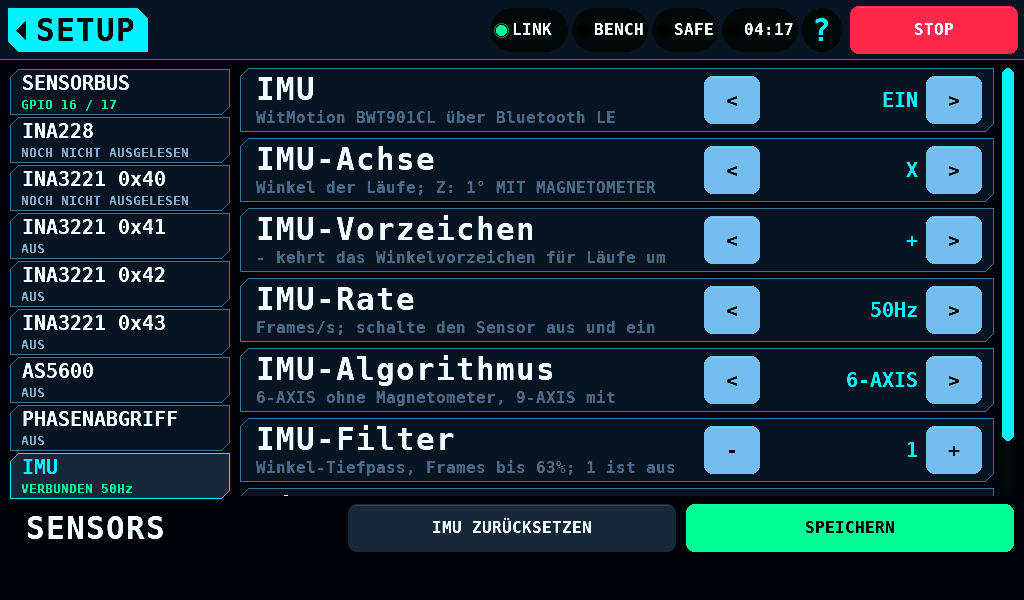
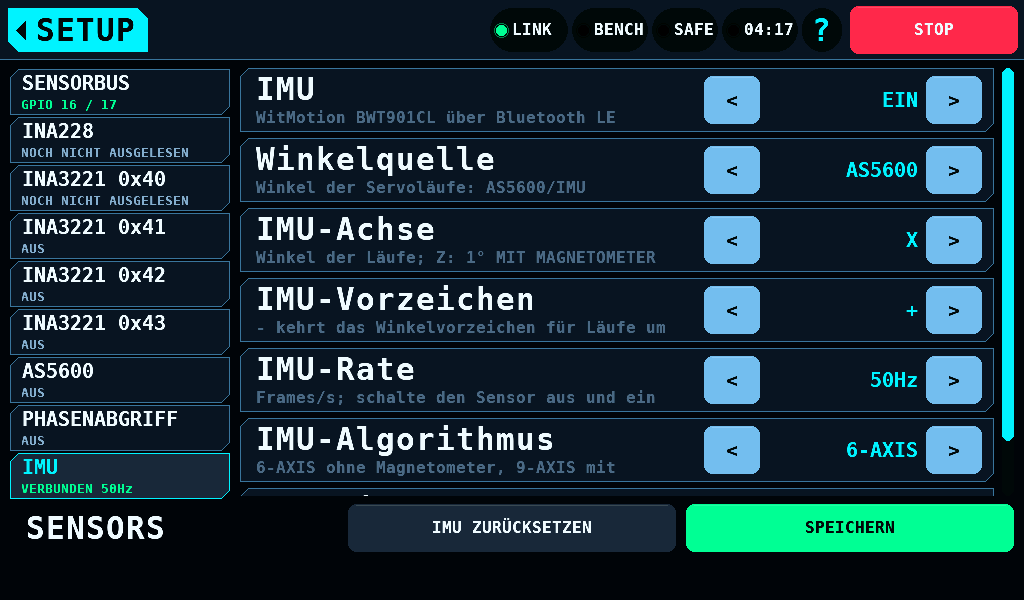
Keep ANGLE SOURCE in SETUP with the IMU off and let SCAN switch it on
SETUP > SENSORS > IMU lists Angle source second and shows it with the
IMU off, so the source goes back to the AS5600 without switching the IMU
on. SCAN FOR SENSORS takes a press with the IMU off or Bluetooth LE
starting: it switches IMU ON in SETUP, opens the list with STARTING
BLUETOOTH as its heading and scans once Bluetooth runs. Without sync with
the C6 and on a failed C6 it stays grey. The card's state line reads IMU
OFF: SCAN SWITCHES IT ON. New views imu-off and setup-sensors-imu-off.

diff --git a/test/host/test_imu_screen.c b/test/host/test_imu_screen.c
@@ -5,7 +5,8 @@
  *
  * The failures this is about: a scan whose list never opens, a tap on a
  * device that binds another one, a calibration started by a brush of the
- * glass, a refused scan that leaves no way on, a line that runs past its
+ * glass, a refused scan that leaves no way on, a SCAN with the IMU off
+ * that does not switch it on, a line that runs past its
  * field in German, and a screen that leaves for the menu rather than SETUP.
  *
  * SPDX-License-Identifier: MIT
@@ -213,6 +214,43 @@ TEST_CASE(scan_posts_the_command_and_the_list_shows_the_found_devices)
     CHECK_EQ(took().kind, IMU_CMD_NONE);
     CHECK(!imu_screen()->covered());
     ui_router_render(&s_c, 0);
+}
+
+/* IMU OFF: SCAN takes a press, switches the IMU on in SETUP and opens the
+ * list, whose heading names the start of Bluetooth LE; the SCAN goes out
+ * once Bluetooth runs, once, and SCAN AGAIN waits with it. */
+TEST_CASE(scan_with_the_imu_off_switches_it_on_and_scans_once_bluetooth_runs)
+{
+    imu_view_t v;
+    memset(&v, 0, sizeof v);
+    v.link = IMU_LINK_OFF;
+    on_imu(&v);
+    CHECK(!settings_get_bool(SET_IMU_EN));
+    CHECK_STR_EQ(imu_screen_line(IMS_L_STATE), "IMU OFF: SCAN SWITCHES IT ON");
+    CHECK(ims_row_enabled(IMS_ROW_SCAN));
+    tap_rect(imu_screen_row_rect(IMS_ROW_SCAN));
+    CHECK(settings_get_bool(SET_IMU_EN));
+    CHECK(imu_screen()->covered());
+    CHECK_EQ(took().kind, IMU_CMD_NONE);
+    CHECK_STR_EQ(imu_screen_line(IMS_L_HEAD), "STARTING BLUETOOTH");
+    CHECK(!ims_row_enabled(IMS_ROW_RESCAN));
+    v.link = IMU_LINK_STARTING;
+    imu_screen_set(&v);
+    CHECK_EQ(took().kind, IMU_CMD_NONE);
+    v.link = IMU_LINK_READY;
+    imu_screen_set(&v);
+    CHECK_EQ(took().kind, IMU_CMD_SCAN);
+    CHECK_EQ(took().kind, IMU_CMD_NONE);
+    CHECK_STR_EQ(imu_screen_line(IMS_L_HEAD), "NO SCAN YET");
+    v.link = IMU_LINK_SCANNING;
+    imu_screen_set(&v);
+    CHECK_STR_EQ(imu_screen_line(IMS_L_HEAD), "SCANNING: 10s");
+    ui_router_render(&s_c, 0);
+    /* A C6 that failed takes no SCAN. */
+    tap_rect(imu_screen_row_rect(IMS_ROW_CLOSE));
+    v.link = IMU_LINK_C6_FAILED;
+    imu_screen_set(&v);
+    CHECK(!ims_row_enabled(IMS_ROW_SCAN));
 }
 
 TEST_CASE(a_tap_on_a_device_posts_bind_with_its_index)
@@ -455,12 +493,12 @@ TEST_CASE(zero_posts_zero_and_the_lines_show_the_zeroed_angles)
 TEST_CASE(the_state_line_names_every_link_state)
 {
     static const char *const en[] = {
-        "IMU OFF: SEE SETTINGS", "STARTING BLUETOOTH",
+        "IMU OFF: SCAN SWITCHES IT ON", "STARTING BLUETOOTH",
         "NO BLUETOOTH ON C6", "C6 FAILED: RESTART", "NO SENSOR BOUND",
         "SCANNING", "CONNECTING", "BOUND", "CONNECTED 50Hz", "NO FRAMES",
     };
     static const char *const de[] = {
-        "IMU AUS: SIEHE OPTIONEN", "BLUETOOTH STARTET",
+        "IMU AUS: SUCHEN SCHALTET SIE EIN", "BLUETOOTH STARTET",
         "KEIN BLUETOOTH AM C6", "C6 AUSGEFALLEN: NEUSTART",
         "KEIN SENSOR GEBUNDEN", "SUCHE LÄUFT", "VERBINDE", "GEBUNDEN",
         "VERBUNDEN 50Hz", "KEINE FRAMES",
@@ -609,6 +647,7 @@ int main(void)
     RUN(the_tile_opens_the_screen_and_home_returns_to_setup);
     RUN(the_hold_and_settings_sit_in_the_footer_over_nothing_else);
     RUN(scan_posts_the_command_and_the_list_shows_the_found_devices);
+    RUN(scan_with_the_imu_off_switches_it_on_and_scans_once_bluetooth_runs);
     RUN(a_tap_on_a_device_posts_bind_with_its_index);
     RUN(a_scan_error_reads_in_the_list_and_on_the_main_view);
     RUN(calibrate_needs_a_2s_hold_and_the_band_hint_on_a_short_press);

diff --git a/shared/ui/imu_screen.c b/shared/ui/imu_screen.c
@@ -3,11 +3,12 @@
  * @brief The IMU screen (imu_screen.h): its model, its touches and its
  *        texts.  imu_screen_draw.c draws it.
  *
- * The screen commands nothing itself: a tap queues an imu_cmd_t that the
- * panel hands to the IMU's task (imu_ctl.h), and the panel hands back
- * what to show each frame (imu_screen_set()).  SCAN opens the found list
- * at once; it shows the scan under way, then the devices, and a tap on one
- * binds it and closes the list.  CALIBRATE in the footer's middle slot is
+ * The screen commands nothing itself but IMU ON in SETUP: a tap queues an
+ * imu_cmd_t that the panel hands to the IMU's task (imu_ctl.h), and the
+ * panel hands back what to show each frame (imu_screen_set()).  SCAN opens
+ * the found list at once, with the IMU switched on in SETUP when it is
+ * off; it shows the start of Bluetooth LE and the scan under way, then the
+ * devices, and a tap on one binds it and closes the list.  CALIBRATE in the footer's middle slot is
  * a 2s hold with the band's hint on a short press (UI_HOLD_S); SETTINGS in
  * its right slot opens SETUP > SENSORS on the IMU entry.
  *
@@ -77,6 +78,24 @@ bool ims_row_shown(int row)
     }
 }
 
+/**
+ * @brief SCAN takes a press: Bluetooth runs and nothing scans or
+ *        calibrates, or the IMU is off or Bluetooth LE starts, which the
+ *        search switches on and waits for (imu_screen_search()).  No sync
+ *        with the C6 and a C6 that failed take none.
+ * @return Whether SCAN and SCAN AGAIN take a press.
+ */
+static bool scan_free(void)
+{
+    switch (ims.v.link) {
+    case IMU_LINK_OFF:
+    case IMU_LINK_STARTING:
+        return ims.v.cal != IMU_CAL_RUNNING && !ims.scan_owed;
+    default:
+        return at_free();
+    }
+}
+
 bool ims_row_enabled(int row)
 {
     if (!ims_row_shown(row)) {
@@ -84,7 +103,7 @@ bool ims_row_enabled(int row)
     }
     switch (row) {
     case IMS_ROW_SCAN: case IMS_ROW_RESCAN:
-        return at_free();
+        return scan_free();
     case IMS_ROW_CAL:
         return ims.v.link == IMU_LINK_CONNECTED
                && ims.v.cal != IMU_CAL_RUNNING;
@@ -329,6 +348,10 @@ static void head_line(char *buf, size_t n, gfx_color_t *ink)
     *ink = UI_TEXT;
     if (ims.v.link == IMU_LINK_SCANNING) {
         snprintf(buf, n, "%s", TR(IMU_SCANNING));
+    } else if (ims.scan_owed) {
+        /* The search waits for Bluetooth LE: what it waits on. */
+        snprintf(buf, n, "%s", ims.v.link == IMU_LINK_NO_BT
+                                   ? TR(IMU_ST_NO_BT) : TR(IMU_ST_STARTING));
     } else if (ims.v.found_n > 0u) {
         snprintf(buf, n, TR(IMU_FOUND), (unsigned)ims.v.found_n);
     } else if (ims.v.err != IMU_ERR_NONE) {
@@ -490,7 +513,9 @@ static void act(int hit)
     switch (hit) {
     case IMS_ROW_SCAN:
     case IMS_ROW_RESCAN:
-        post(IMU_CMD_SCAN, 0u);
+        /* With the IMU off it is switched on, and the scan waits for
+         * Bluetooth LE to run. */
+        (void)imu_screen_search();
         ims.list = true;
         break;
     case IMS_ROW_ZERO:   post(IMU_CMD_ZERO, 0u);   break;

diff --git a/test/host/test_sensors_pane.c b/test/host/test_sensors_pane.c
@@ -120,31 +120,31 @@ TEST_CASE(a_moved_row_keeps_its_key)
     }
 }
 
-/* The enable row alone while off, the sensor's rows under it while on; the
- * bus has no enable row. */
+/* The enable row alone while off, the IMU's with ANGLE SOURCE, the
+ * sensor's rows under it while on; the bus has no enable row. */
 TEST_CASE(rows_appear_when_a_sensor_is_enabled)
 {
-    static const struct { int e; setting_id_t en; int on; } k[] = {
-        { SENS_ENTRY_INA228, SET_INA228_EN, 4 },
-        { SENS_ENTRY_INA3221_0, SET_INA_FIT_0, 10 },
-        { SENS_ENTRY_INA3221_0 + 3, (setting_id_t)(SET_INA_FIT_0 + 3), 10 },
-        { SENS_ENTRY_AS5600, SET_ENC_EN, 2 },
-        { SENS_ENTRY_TAP, SET_TONE_EN, 7 },
-        { SENS_ENTRY_IMU, SET_IMU_EN, 7 },
+    static const struct { int e; setting_id_t en; int on; int off; } k[] = {
+        { SENS_ENTRY_INA228, SET_INA228_EN, 4, 1 },
+        { SENS_ENTRY_INA3221_0, SET_INA_FIT_0, 10, 1 },
+        { SENS_ENTRY_INA3221_0 + 3, (setting_id_t)(SET_INA_FIT_0 + 3), 10, 1 },
+        { SENS_ENTRY_AS5600, SET_ENC_EN, 2, 1 },
+        { SENS_ENTRY_TAP, SET_TONE_EN, 7, 1 },
+        { SENS_ENTRY_IMU, SET_IMU_EN, 7, 2 },   /* ANGLE SOURCE stays */
     };
     pane();
     CHECK_EQ(settings_screen_rows(SET_CAT_SENSORS), 2);
     for (size_t i = 0u; i < sizeof(k) / sizeof(k[0]); ++i) {
         tap(entry_x(k[i].e), entry_y(k[i].e));
         CHECK_EQ(sensors_pane_selected(), k[i].e);
-        CHECK_EQ(settings_screen_rows(SET_CAT_SENSORS), 1);
+        CHECK_EQ(settings_screen_rows(SET_CAT_SENSORS), k[i].off);
         /* The tap on the enable row's ">" brings the others. */
         tap(XP, LIST_Y + ROW_H / 2);
         CHECK(settings_get_bool(k[i].en));
         CHECK_EQ(settings_screen_rows(SET_CAT_SENSORS), k[i].on);
         tap(XM, LIST_Y + ROW_H / 2);
         CHECK(!settings_get_bool(k[i].en));
-        CHECK_EQ(settings_screen_rows(SET_CAT_SENSORS), 1);
+        CHECK_EQ(settings_screen_rows(SET_CAT_SENSORS), k[i].off);
     }
     CHECK_EQ(sensors_pane_rows(-1, NULL, 0), 0);
     CHECK_EQ(sensors_pane_rows(SENS_ENTRY_COUNT, NULL, 0), 0);

diff --git a/test/host/test_imu_pane.c b/test/host/test_imu_pane.c
@@ -2,7 +2,8 @@
  * SETUP > SENSORS > IMU (sensors_pane.h, sensors_rows.h): the entry's rows,
  * its state column, and what a RATE or an ALGORITHM change does.
  *
- * The failures this is about: an IMU entry that shows its rows while off,
+ * The failures this is about: an IMU entry that shows its sensor's rows
+ * while off or hides ANGLE SOURCE then,
  * a state word in a colour that says connected when it is not, a RATE
  * changed in SETUP that never reaches the sensor or reaches it without the
  * operator learning it needs a power cycle, and a SENSORS row past the
@@ -22,15 +23,18 @@ TEST_CASE(the_imu_entry_shows_its_rows_under_on)
     char name[16];
     CHECK_STR_EQ(sensors_pane_name(SENS_ENTRY_IMU, name, sizeof name), "IMU");
     setting_id_t rows[SENS_ENTRY_ROWS_MAX];
-    CHECK_EQ(sensors_pane_rows(SENS_ENTRY_IMU, rows, SENS_ENTRY_ROWS_MAX), 1);
+    /* OFF: IMU and ANGLE SOURCE, so the source goes back to the AS5600
+     * with the IMU off. */
+    CHECK_EQ(sensors_pane_rows(SENS_ENTRY_IMU, rows, SENS_ENTRY_ROWS_MAX), 2);
     CHECK_EQ(rows[0], SET_IMU_EN);
+    CHECK_EQ(rows[1], SET_ANGLE_SOURCE);
     settings_set(SET_IMU_EN, 1.0f);
-    /* ON, AXIS, SIGN, RATE, ALGORITHM, FILTER, and ANGLE SOURCE under
-     * them. */
-    static const setting_id_t want[] = { SET_IMU_EN, SET_IMU_AXIS,
-                                         SET_IMU_SIGN, SET_IMU_RATE,
-                                         SET_IMU_ALGO, SET_IMU_FILTER,
-                                         SET_ANGLE_SOURCE };
+    /* ON: ANGLE SOURCE second, AXIS, SIGN, RATE, ALGORITHM and FILTER
+     * under it. */
+    static const setting_id_t want[] = { SET_IMU_EN, SET_ANGLE_SOURCE,
+                                         SET_IMU_AXIS, SET_IMU_SIGN,
+                                         SET_IMU_RATE, SET_IMU_ALGO,
+                                         SET_IMU_FILTER };
     CHECK_EQ(sensors_pane_rows(SENS_ENTRY_IMU, rows, SENS_ENTRY_ROWS_MAX), 7);
     for (int i = 0; i < 7; ++i) {
         CHECK_EQ(rows[i], want[i]);

diff --git a/shared/ui/sensors_pane.c b/shared/ui/sensors_pane.c
@@ -30,10 +30,13 @@ static const setting_id_t k_as5600[] = { SET_ENC_EN, SET_ENC_CENTER };
 static const setting_id_t k_tap[] = { SET_TONE_EN, SET_TONE_PIN, SET_TONE_F_MIN,
                                       SET_TONE_F_MAX, SET_TONE_SPLIT,
                                       SET_TONE_GAP, SET_TONE_PERIODS };
-/** @brief The IMU's rows, the enable row first; ANGLE SOURCE last. */
-static const setting_id_t k_imu[] = { SET_IMU_EN, SET_IMU_AXIS, SET_IMU_SIGN,
+/** @brief The IMU's rows, the enable row first and ANGLE SOURCE second:
+ *         both stand while the IMU is off, so the source can go back to
+ *         the AS5600 without switching the IMU on. */
+static const setting_id_t k_imu[] = { SET_IMU_EN, SET_ANGLE_SOURCE,
+                                      SET_IMU_AXIS, SET_IMU_SIGN,
                                       SET_IMU_RATE, SET_IMU_ALGO,
-                                      SET_IMU_FILTER, SET_ANGLE_SOURCE };
+                                      SET_IMU_FILTER };
 
 /** @brief Appends @p table to all_rows()'s out, counted in its n. */
 #define COPY_ROWS(table)                                             \
@@ -105,8 +108,11 @@ int sensors_pane_rows(int entry, setting_id_t *out, int max)
 {
     setting_id_t rows[SENS_ENTRY_ROWS_MAX];
     int n = all_rows(entry, rows);
-    if (entry != SENS_ENTRY_BUS && n > 1 && !settings_get_bool(rows[0])) {
-        n = 1;
+    /* Off: the enable row alone; the IMU's ANGLE SOURCE with it. */
+    const int off_rows = (entry == SENS_ENTRY_IMU) ? 2 : 1;
+    if (entry != SENS_ENTRY_BUS && n > off_rows
+        && !settings_get_bool(rows[0])) {
+        n = off_rows;
     }
     for (int i = 0; out != NULL && i < n && i < max; ++i) {
         out[i] = rows[i];

diff --git a/test/host/render_imu.c b/test/host/render_imu.c
@@ -7,7 +7,9 @@
  * other devices hidden.
  * imu-connected: bound to it, 50Hz, ZERO taken, the surface at +12.3° on
  * X, the battery at 3.95V and the calibration done.  setup-sensors-imu:
- * SENSORS on the IMU entry, the IMU on and connected at 50Hz.
+ * SENSORS on the IMU entry, the IMU on and connected at 50Hz.  imu-off:
+ * the IMU off in SETUP since the start, SCAN offered.  setup-sensors-imu-off: SENSORS on
+ * the IMU entry with the IMU off, ANGLE SOURCE under it.
  *
  * SPDX-License-Identifier: MIT
  */
@@ -28,7 +30,7 @@
 bool render_imu_view(const char *view)
 {
     return strcmp(view, "imu") == 0 || strncmp(view, "imu-", 4) == 0
-           || strcmp(view, "setup-sensors-imu") == 0;
+           || strncmp(view, "setup-sensors-imu", 17) == 0;
 }
 
 /**
@@ -99,6 +101,17 @@ void render_imu_pose(const char *view)
     snprintf(v.version, sizeof(v.version), "2.13.0");
     v.r.battery_v = NAN;
     v.r.temp_c = NAN;
+    if (strcmp(view, "imu-off") == 0
+        || strcmp(view, "setup-sensors-imu-off") == 0) {
+        v.link = IMU_LINK_OFF;
+        v.version[0] = '\0';     /* Bluetooth LE not started since boot */
+        if (strcmp(view, "setup-sensors-imu-off") == 0) {
+            settings_screen_open_on(SET_CAT_SENSORS, SENS_ENTRY_IMU);
+            return;
+        }
+        imu_screen_set(&v);
+        return;
+    }
     settings_set(SET_IMU_EN, 1.0f);
     if (strcmp(view, "setup-sensors-imu") == 0) {
         sensors_rows_set_imu(IMU_LINK_CONNECTED, 500u);

diff --git a/tools/render_ui.py b/tools/render_ui.py
@@ -820,6 +820,10 @@ SCREENS = {
     "imu-scan": ("imu-scan.png", "imu", "dark"),
     "imu-connected": ("imu-connected.png", "imu", "dark"),
     "setup-sensors-imu": ("setup-sensors-imu.png", "setup", "dark"),
+    # The IMU off in SETUP: the IMU screen with SCAN offered, and SENSORS
+    # on the IMU entry with ANGLE SOURCE under IMU.
+    "imu-off": ("imu-off.png", "imu", "dark"),
+    "setup-sensors-imu-off": ("setup-sensors-imu-off.png", "setup", "dark"),
     # RUDDER AUTO: SAFE on the bench's outputs, READY's PORT row red; its
     # SETTINGS list; on the rbmod carrier SAFE with the hold offered, the
     # ARM + START sequence waiting for the PROG 5V, and its read-back

diff --git a/shared/ui/include/sensors_pane.h b/shared/ui/include/sensors_pane.h
@@ -32,7 +32,8 @@ enum {
     SENS_ENTRY_INA3221_0,    /**< FITTED and 3 channels x 3 rows, 0x40     */
     SENS_ENTRY_AS5600 = SENS_ENTRY_INA3221_0 + SET_INA_PARTS, /**< enable, center */
     SENS_ENTRY_TAP,          /**< enable, pin, 2 tones, split, gap, periods */
-    SENS_ENTRY_IMU,          /**< enable, axis, sign, rate, algorithm, angle source */
+    SENS_ENTRY_IMU,          /**< enable, angle source, axis, sign, rate,
+                                  algorithm, filter */
     SENS_ENTRY_COUNT
 };
 

diff --git a/test/host/render_screen.c b/test/host/render_screen.c
@@ -4284,7 +4284,7 @@ static void pose_shown_setup(ui_screen_id_t id, const char *view)
      */
     if (strncmp(view, "setup-sensors", 13) == 0
         && strcmp(view, "setup-sensors-ina228") != 0
-        && strcmp(view, "setup-sensors-imu") != 0) {
+        && strncmp(view, "setup-sensors-imu", 17) != 0) {
         settings_set(SET_INA_FIT(1), 1.0f);
         settings_set(SET_INA_W(4), (float)SENS_W_PORT_1);
         settings_set(SET_INA_LIM(4), 800.0f);

diff --git a/help/content/de/imu.md b/help/content/de/imu.md
@@ -10,9 +10,11 @@ Die Seite IMU steuert eine Bluetooth-IMU (Inertial Measurement Unit): einen WitM
 
 ![IMU, Bluetooth LE läuft, kein Sensor gebunden](view:imu)
 
+![Die IMU aus in SETUP: SENSOREN SUCHEN schaltet sie ein](view:imu-off)
+
 | Bedienelement | Funktion |
 |---|---|
-| SENSOREN SUCHEN | öffnet die Sensorliste und startet eine Suche von 10s; verfügbar, solange Bluetooth läuft und keine Suche und keine Kalibrierung läuft |
+| SENSOREN SUCHEN | öffnet die Sensorliste und startet eine Suche von 10s; verfügbar, solange Bluetooth läuft und keine Suche und keine Kalibrierung läuft, und bei ausgeschalteter IMU oder startendem Bluetooth LE: dann schaltet es die IMU in SETUP ein, die Liste zeigt `BLUETOOTH STARTET`, und die Suche startet, sobald Bluetooth läuft |
 | 2s HALTEN: KALIBRIEREN | in der Mitte der Fußleiste; startet bei bestehender Verbindung die Kalibrierung des Beschleunigungssensors; halte ihn während des Countdowns von 3s still und waagerecht |
 | NULLPUNKT | übernimmt die aktuellen Winkel als Nullpunkt, wenn ein Messwert vorliegt; mit WINKELQUELLE IMU werden dabei der Nullpunkt und MAX auf RUDER gelöscht |
 | NULLPUNKT LÖSCHEN | zeigt die Winkel wieder relativ zum eigenen Nullpunkt des Sensors |
@@ -28,7 +30,7 @@ Ein Druck von weniger als 2s startet keine Kalibrierung. Das Band zeigt `Halte 2
 |---|---|
 | `SENSOR: HC-06` | der bei der Suche ermittelte Name des gebundenen Sensors, `OHNE NAMEN` ohne Namen, oder `KEINER GEBUNDEN`; darunter stehen Adresse und Typ (`P` öffentlich, `R` zufällig) |
 | `C6: 2.13.0` | die Firmware-Version des C6, `---`, wenn der C6 keine meldet |
-| Zustand | `IMU AUS: SIEHE OPTIONEN`, `BLUETOOTH STARTET`, `KEIN BLUETOOTH AM C6`, `C6 AUSGEFALLEN: NEUSTART`, `KEIN SENSOR GEBUNDEN`, `SUCHE LÄUFT`, `VERBINDE`, `GEBUNDEN`, `VERBUNDEN 50Hz` oder `KEINE FRAMES` |
+| Zustand | `IMU AUS: SUCHEN SCHALTET SIE EIN`, `BLUETOOTH STARTET`, `KEIN BLUETOOTH AM C6`, `C6 AUSGEFALLEN: NEUSTART`, `KEIN SENSOR GEBUNDEN`, `SUCHE LÄUFT`, `VERBINDE`, `GEBUNDEN`, `VERBUNDEN 50Hz` oder `KEINE FRAMES` |
 | X, Y, Z | die Winkel relativ zum Nullpunkt durch den IMU-Filter, mit einer Auflösung von 0,01°, ohne Messwert `---`; die von Servoläufen verwendete Achse erscheint in der Akzentfarbe |
 | RATE, ALTER | die Zahl der Winkel-Frames in der letzten Sekunde und die Zeit seit dem jüngsten Frame auf der Seite |
 | AKKU | der Akkuwert des Sensors aus Frame 0x52; über 6,0V ausgeblendet |

diff --git a/help/content/de/setup-sensors.md b/help/content/de/setup-sensors.md
@@ -194,17 +194,19 @@ Vibration und Optischer Tacho besitzen gespeicherte Schlüssel, aber keinen Eint
 
 ![SENSORS auf dem IMU-Eintrag, verbunden](view:setup-sensors-imu)
 
+![Die IMU aus: IMU und Winkelquelle](view:setup-sensors-imu-off)
+
 Der Winkelsensor WitMotion BWT901CL wird über Bluetooth LE durch den ESP32-C6 des Boards verbunden. Suche, Zuordnung und Kalibrierung erfolgen über die Kachel [IMU](imu.md) in SETUP. Dieser Eintrag enthält seine Einstellungen.
 
 | Einstellung | Bereich | Vorgabe | Was sie tut |
 |---|---|---|---|
 | IMU | EIN, AUS | AUS | Bluetooth LE, die Verbindung zum gebundenen Sensor und sein Messwert; das erste EIN startet Bluetooth LE bis zum Neustart des Panels |
+| Winkelquelle | AS5600, IMU | AS5600 | woher die Servoläufe ihren Winkel nehmen ([Servo-Optionen](servo-settings.md)); auch bei ausgeschalteter IMU gezeigt, damit die Quelle ohne Einschalten der IMU auf den AS5600 zurückgeht |
 | IMU-Achse | X, Y, Z | X | der Winkel, den die Servoläufe und RUDER lesen; `Z: 1° MIT MAGNETOMETER` |
 | IMU-Vorzeichen | +, - | + | `-` dreht diesen Winkel um |
 | IMU-Rate | 10Hz, 20Hz, 50Hz, 100Hz, 200Hz | 50Hz | die Frames des Sensors je Sekunde; nur bei einer Änderung gesendet, sie gilt, nachdem der Sensor aus- und wieder eingeschaltet wurde; ab Werk läuft der Sensor mit 10Hz, und `VERBUNDEN` zeigt die Rate, mit der er läuft |
 | IMU-Algorithmus | 6-AXIS, 9-AXIS | 6-AXIS | 9-AXIS nimmt das Magnetometer für Z |
 | IMU-Filter | 1 bis 50 | 1 | der Tiefpass des Panels auf dem Winkel; 1 ist aus |
-| Winkelquelle | AS5600, IMU | AS5600 | woher die Servoläufe ihren Winkel nehmen ([Servo-Optionen](servo-settings.md)) |
 
 IMU-Filter glättet den Winkel auf dem Panel, je Frame und Achse: der Winkel rückt um 1/k der Differenz zum neuen Frame vor, mit k dem eingestellten Wert. 63% eines Sprungs erreicht er nach etwa k Frames, bei 10Hz also mit IMU-Filter 10 nach etwa 1s. Die Frames je Sekunde sind die Rate, mit der der Sensor läuft und die `VERBUNDEN` zeigt, nicht die erfragte IMU-Rate. Der IMU-Bildschirm, RUDER, AUTO und die Servoläufe lesen den gefilterten Winkel. Der erste Frame nach einem Verbinden setzt den Filter auf seinen eigenen Wert, und ein Übergang über 180° nimmt den kurzen Weg. AUTO wartet, bis der gefilterte Winkel eingeschwungen ist, bis zu 3000ms plus die Zeit, die der Wert brauchen kann ([Die Bluetooth-IMU](https://github.com/subtilitas/rcbench/wiki/IMU-de#der-filter)).
 

diff --git a/help/content/en/setup-sensors.md b/help/content/en/setup-sensors.md
@@ -194,17 +194,19 @@ Vibration and Optical tacho have stored keys and no entry: no screen or IOmcu re
 
 ![SENSORS on the IMU entry, connected](view:setup-sensors-imu)
 
+![The IMU off: IMU and Angle source](view:setup-sensors-imu-off)
+
 The WitMotion BWT901CL connects over Bluetooth LE through the board's ESP32-C6. Use the [IMU](imu.md) tile on SETUP to scan, bind and calibrate it. This entry contains its settings.
 
 | Setting | Range | Default | What it does |
 |---|---|---|---|
 | IMU | ON, OFF | OFF | Bluetooth LE, the link to the bound sensor and its reading; the first ON starts Bluetooth LE until the panel restarts |
+| Angle source | AS5600, IMU | AS5600 | where the servo runs take their angle from ([Servo settings](servo-settings.md)); shown with the IMU off too, so the source can go back to the AS5600 without switching the IMU on |
 | IMU axis | X, Y, Z | X | the angle the servo runs and RUDDER read; `Z: 1° WITH THE MAGNETOMETER` |
 | IMU sign | +, - | + | `-` turns that angle round |
 | IMU rate | 10Hz, 20Hz, 50Hz, 100Hz, 200Hz | 50Hz | the sensor's frames a second; sent only when changed, it takes effect after the sensor is switched off and on; the sensor ships at 10Hz, and `CONNECTED` shows the rate it runs |
 | IMU algorithm | 6-AXIS, 9-AXIS | 6-AXIS | 9-AXIS takes the magnetometer for Z |
 | IMU filter | 1 to 50 | 1 | the panel's low-pass on the angle; 1 is off |
-| Angle source | AS5600, IMU | AS5600 | where the servo runs take their angle from ([Servo settings](servo-settings.md)) |
 
 IMU filter smooths the angle on the panel, per frame and axis: the angle moves by 1/k of the difference to the new frame, with k the setting. It covers 63% of a step in about k frames, so at 10Hz an IMU filter of 10 takes about 1s. The frames per second are the rate the sensor runs, which `CONNECTED` shows, not the IMU rate asked. The IMU screen, RUDDER, AUTO and the servo runs read the filtered angle. The first frame after a connect starts the filter at its own value, and a crossing of 180° takes the short way. AUTO waits until the filtered angle has settled, up to 3000ms plus the time the setting can take ([The Bluetooth IMU](https://github.com/subtilitas/rcbench/wiki/IMU#the-filter)).
 
